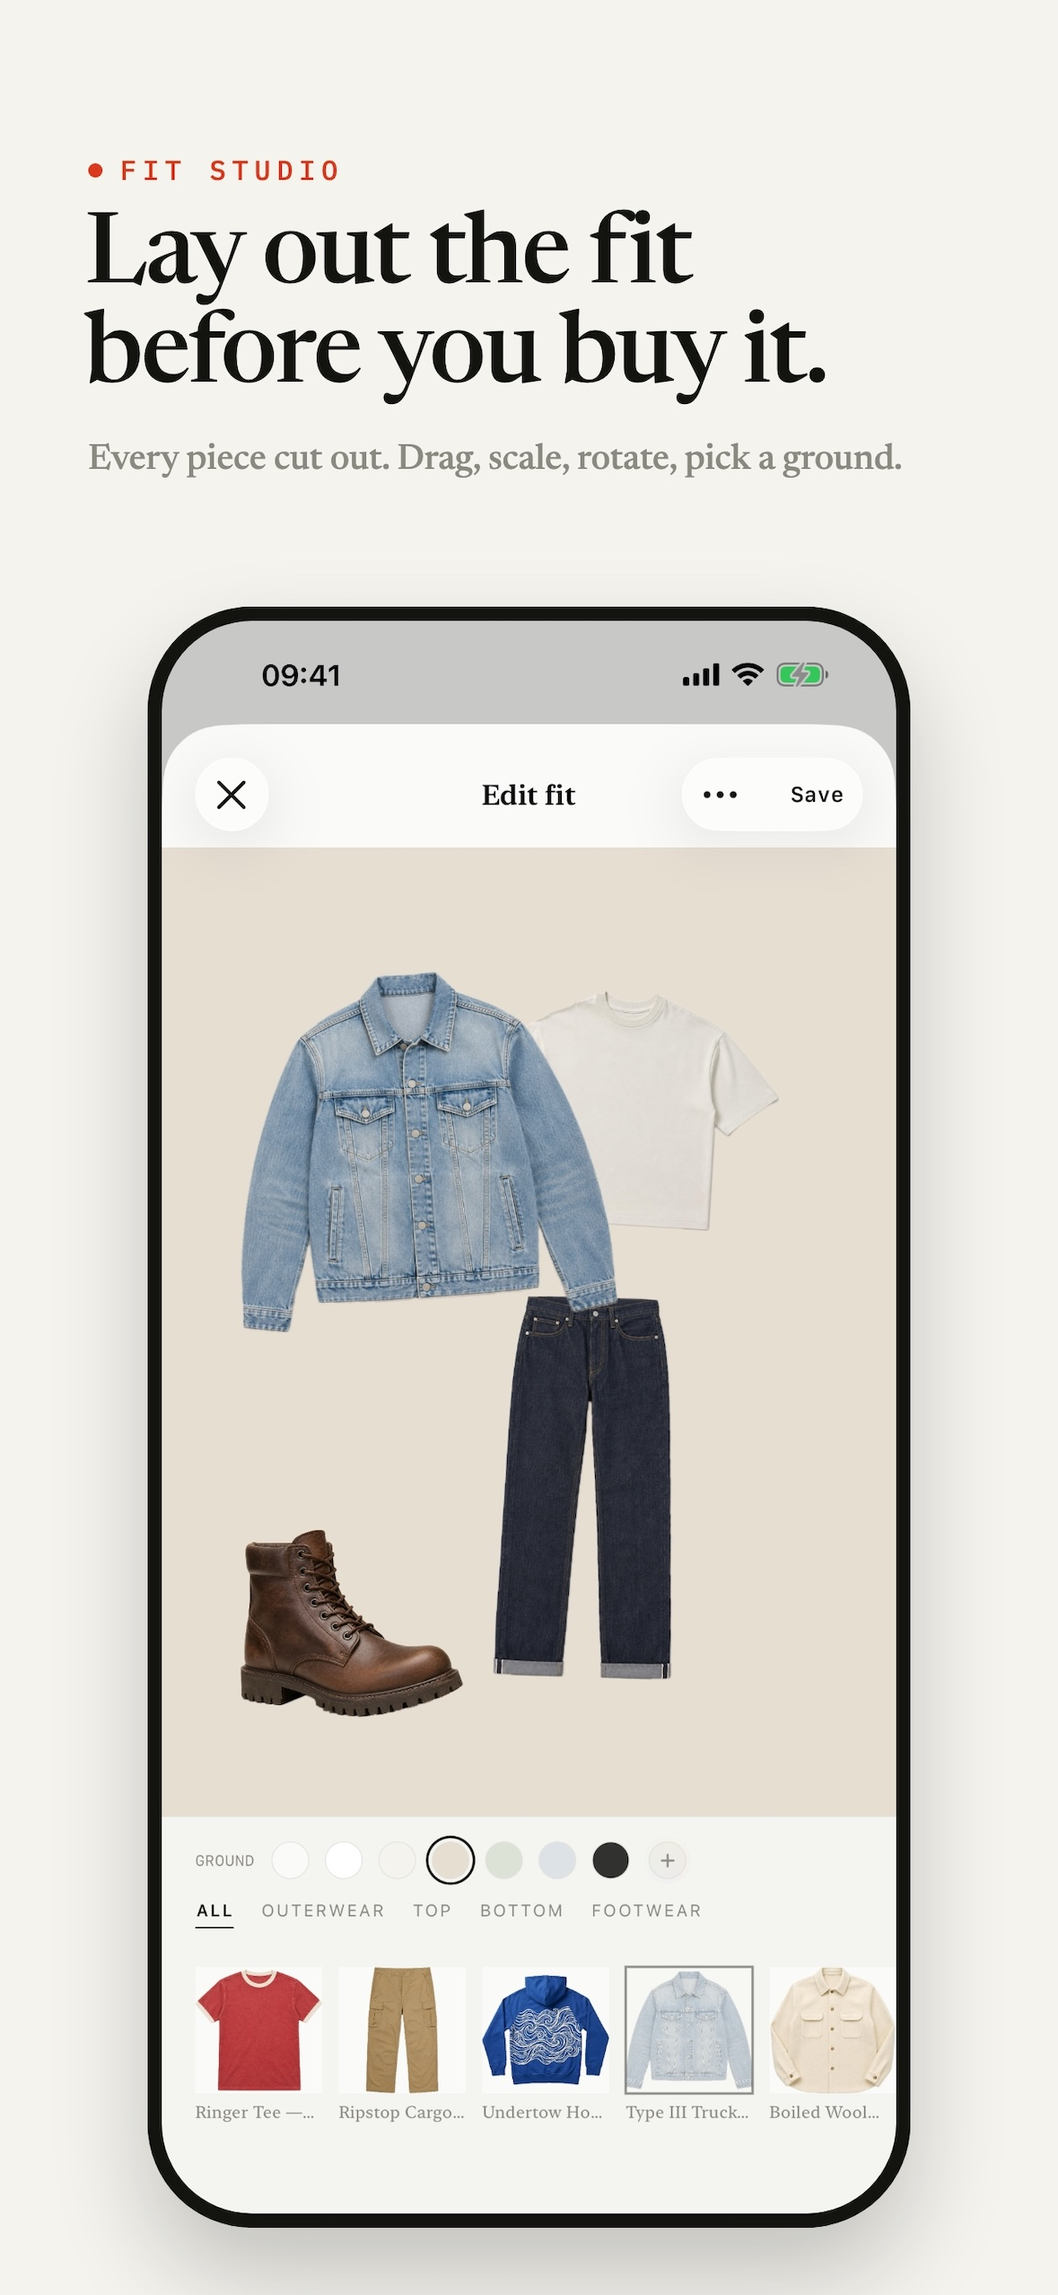
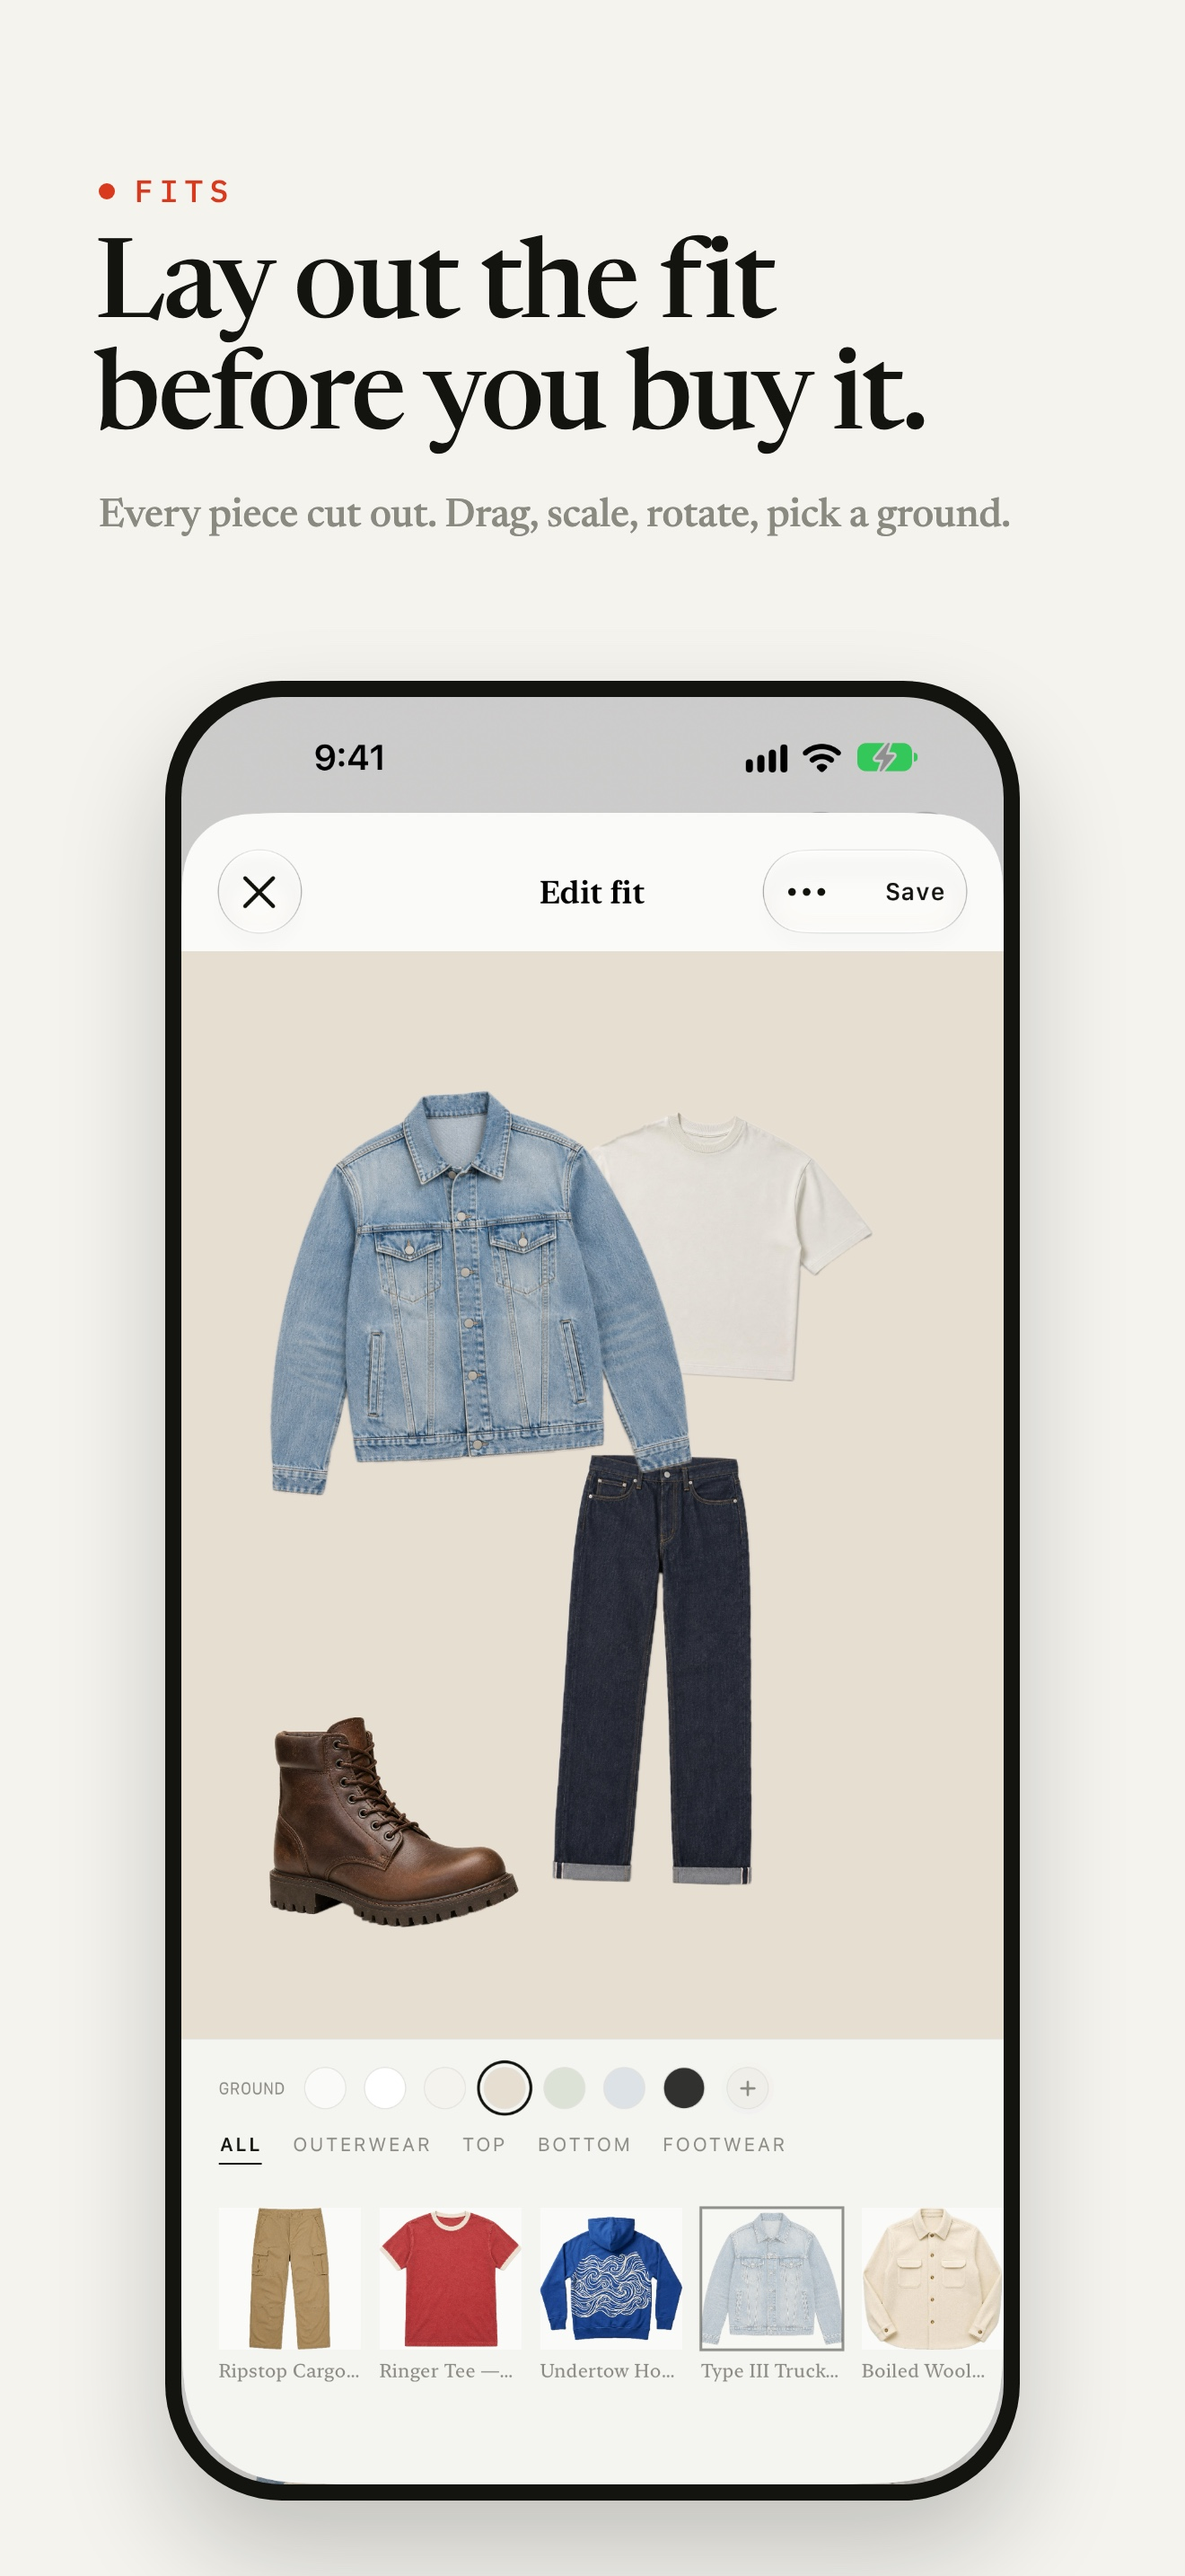
App Store screenshots for 1.2
Shot from the demo catalogue in standalone mode, en_US. Adds a DEBUG-only
-shopQuery flag so Shop's described search can be shot without the keyboard.

diff --git a/streetw/Views/Shop/ShopView.swift b/streetw/Views/Shop/ShopView.swift
@@ -187,6 +187,15 @@ struct ShopView: View {
         .task(id: picksKey(day: day)) {
             await choosePicks(day: day)
         }
+        #if DEBUG
+        // Screenshot affordance: `-shopQuery "<text>"` types a description into the field at
+        // launch, so a search and its reading can be shot without driving the keyboard.
+        .task {
+            if text.isEmpty, let typed = UserDefaults.standard.string(forKey: "shopQuery"), !typed.isEmpty {
+                text = typed
+            }
+        }
+        #endif
         // A multi-line field so a long description wraps where it can be read, which makes
         // return a newline — so a newline is taken as "done", the way the keyboard's own
         // Search key reads.

diff --git a/AppStore/demo/compose.py b/AppStore/demo/compose.py
@@ -21,19 +21,19 @@ PAPER, INK, SIGNAL, MUTED = "#F4F3EE", "#14140F", "#D93A1E", "#8A8A80"
 
 # (file, kicker, headline, subline, dark)
 SHOTS = [
-    ("feed", "Every brand, one feed", "Never miss<br>a drop again.",
-     "New releases, restocks and price cuts from the labels you follow.", False),
-    ("product", "Restock alerts", "Back in your size?<br>You'll know.",
-     "Your sizes, picked out on every product.", False),
-    ("discover", "Discover", "Pieces that go<br>with what you own.",
-     "Every card is matched against your wardrobe.", True),
-    ("saved", "Your collection", "Save it now.<br>Decide later.",
+    ("feed", "Every shop you follow", "New since<br>you last looked.",
+     "Drops, restocks and sales in one feed, newest first.", False),
+    ("product", "Restocks", "Back in your size?<br>You'll know.",
+     "Your sizes picked out on every product.", False),
+    ("search", "Shop", "Say what<br>you're after.",
+     "Describe it in plain words. It prints what it understood.", False),
+    ("picks", "Today's picks", "Pieces that go<br>with what you own.",
+     "A few each day from your shops, beside a piece you own.", True),
+    ("saved", "Saved", "Save it now.<br>Decide later.",
      "One wall for everything you're eyeing.", False),
-    ("style", "Style", "Outfits from your<br>own wardrobe.",
-     "See what works together, and what's missing.", False),
-    ("fit", "Fit studio", "Lay out the fit<br>before you buy it.",
+    ("fit", "Fits", "Lay out the fit<br>before you buy it.",
      "Every piece cut out. Drag, scale, rotate, pick a ground.", False),
-    ("calendar", "Drop calendar", "Know the date.<br>Get the reminder.",
+    ("calendar", "Upcoming", "Know the date.<br>Get the reminder.",
      "A heads-up the morning of, and again at release.", False),
 ]
 

diff --git a/AppStore/RELEASING.md b/AppStore/RELEASING.md
@@ -161,27 +161,44 @@ xcrun simctl list devices available | grep -E '^--|iPhone'
 ### 4. Screenshots
 
 `AppStore/screenshots/` is scripted rather than captured by hand, for the same reason the app icon
-is code: a set re-shot by hand drifts from the app the first time a screen changes. The launch
-flags make it possible with no UI automation at all:
-
-```
--startTab feed|shop|saved             open straight to a tab (style opens Saved › Fits)
--didOfferStarterPack YES               skip onboarding deterministically
--seedBrands / -seedSizes / -seedSaves  populate the store
-```
-
-Server mode is what you want even though `-seedBrands` polls from the phone: `/v1/discover`
-returns cards for a device with no follows at all, and standalone mode has no equivalent — so the
-Discover deck in Shop is empty without a server. Set a marketing status bar first:
+is code: a set re-shot by hand drifts from the app the first time a screen changes. Two scripts:
 
 ```bash
-xcrun simctl status_bar "$DEV" override --time "9:41" --batteryState charged --batteryLevel 100 \
-  --cellularMode active --wifiMode active --wifiBars 3
+AppStore/demo/shoot.sh <udid>     # raw screens into AppStore/demo/raw/
+python3 AppStore/demo/compose.py  # headline + device frame → AppStore/screenshots/NN-name.jpg
 ```
 
-`-seedSizes` only takes effect on the **next** launch, so seed once, terminate, then capture.
+`shoot.sh` needs the app built into `/tmp/streetw-dd` and a booted 6.9" simulator (iPhone 18 Pro
+Max gives 1320×2868). `compose.py` renders with headless Chrome at `/Applications/Google Chrome.app`.
 
-- [ ] At least one 6.9" set (iPhone 17 Pro Max, 1320×2868). No iPad set is needed —
+**Standalone and the demo catalogue only — never a server.** Every brand on screen comes from
+`DemoCatalog` (`-demoCatalog <url>`, photographs served from `AppStore/demo/catalog/` by the
+script), because App Review flags screenshots showing real brands, and a debug build pointed at
+production writes a device and its follows into the real catalogue. The Discover deck is empty in
+standalone, which is why no shot shows it.
+
+**en_US, on the device and on every launch.** Prices print in the reader's locale, and a German
+simulator printed "135 US$". The script writes `AppleLocale`/`AppleLanguages` and passes
+`-AppleLocale en_US -AppleLanguages "(en)"`. It also overrides the status bar to 9:41.
+
+The set, and the flags that reach each screen with no UI automation:
+
+| File | Screen | Flags |
+|---|---|---|
+| `01-feed` | the feed grid and the since-line | `-startTab feed -feedLastVisitHours 5` |
+| `02-product` | the restock, your sizes picked out | `-demoOpen "restock:shopify:910001"` |
+| `03-search` | Shop, a described search and its reading | `-startTab shop -shopQuery "black trousers under 200"` |
+| `04-picks` | Shop, today's picks | `-startTab shop` |
+| `05-saved` | Saved, the wall | `-startTab saved` |
+| `06-fit` | the fit canvas | `-startTab style -demoSheet fit` |
+| `07-calendar` | Upcoming | `-startTab feed -feedFilter upcoming` |
+
+Every launch also carries `-standalone YES -didOfferStarterPack YES -seedSizes "M,L,10"`.
+`-seedSizes` only takes effect on the **next** launch, which is what the script's priming launch
+is for. The product page needs ~25s before its photograph is drawn; a shorter settle shoots an
+empty frame. Look at every raw and composed image before uploading.
+
+- [ ] At least one 6.9" set (1320×2868). No iPad set is needed —
       `TARGETED_DEVICE_FAMILY` is 1.
 
 ### 5. Archive, upload, and then actually test push

diff --git a/CLAUDE.md b/CLAUDE.md
@@ -147,6 +147,7 @@ Dev-only launch flags (all read via `UserDefaults`, all no-ops when absent):
 | `-feedLastVisitHours 5` | Pretends the last visit to the feed ended that long ago, for the launch's first visit, so the "since you were last here" line can be shot without waiting out `FeedVisit.resumeWindow` |
 | `-feedFilter upcoming` | Opens the feed narrowed — `all`, `drops`, `restocks`, `sales` or `upcoming` |
 | `-feedBrand "Ondo Club"` | Opens the feed narrowed to one followed brand, by name |
+| `-shopQuery "black trousers under 200"` | DEBUG only. Types a description into Shop's field at launch, so a search and its reading can be shot without the keyboard. Pair with `-startTab shop` |
 | `-debugBackgroundPass YES` | Runs the background refresh's every-profile pass each time the app is backgrounded (DEBUG builds only) |
 
 **`-standalone YES` is the only way to get standalone mode.** `-serverBaseURL ""` used to do it
